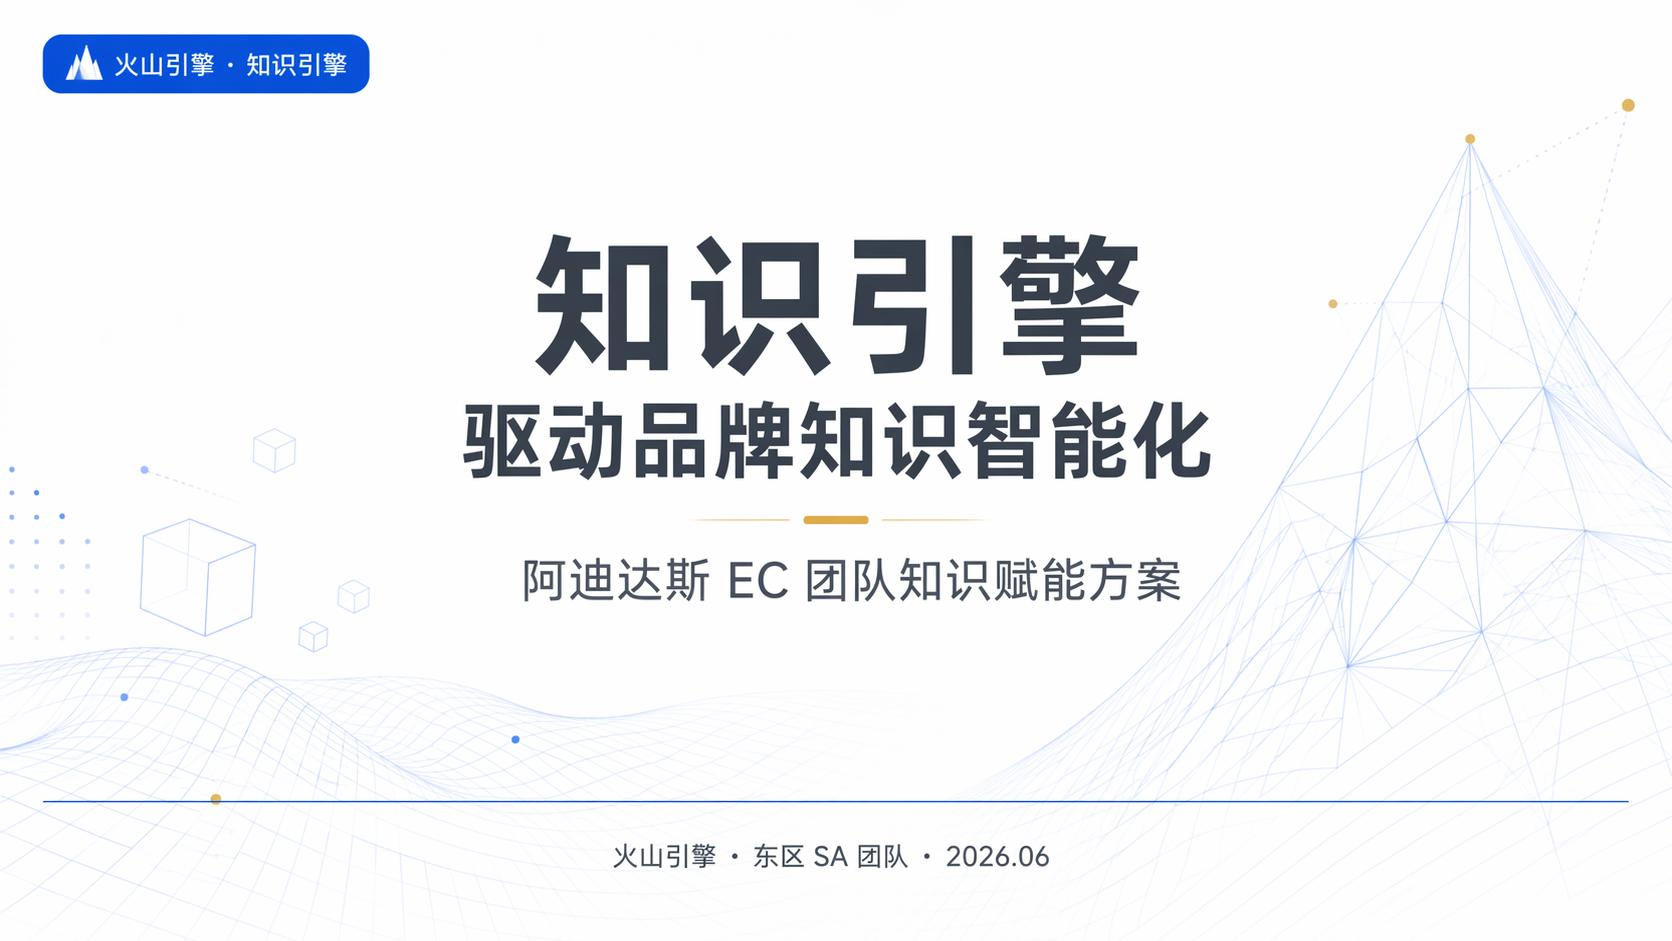
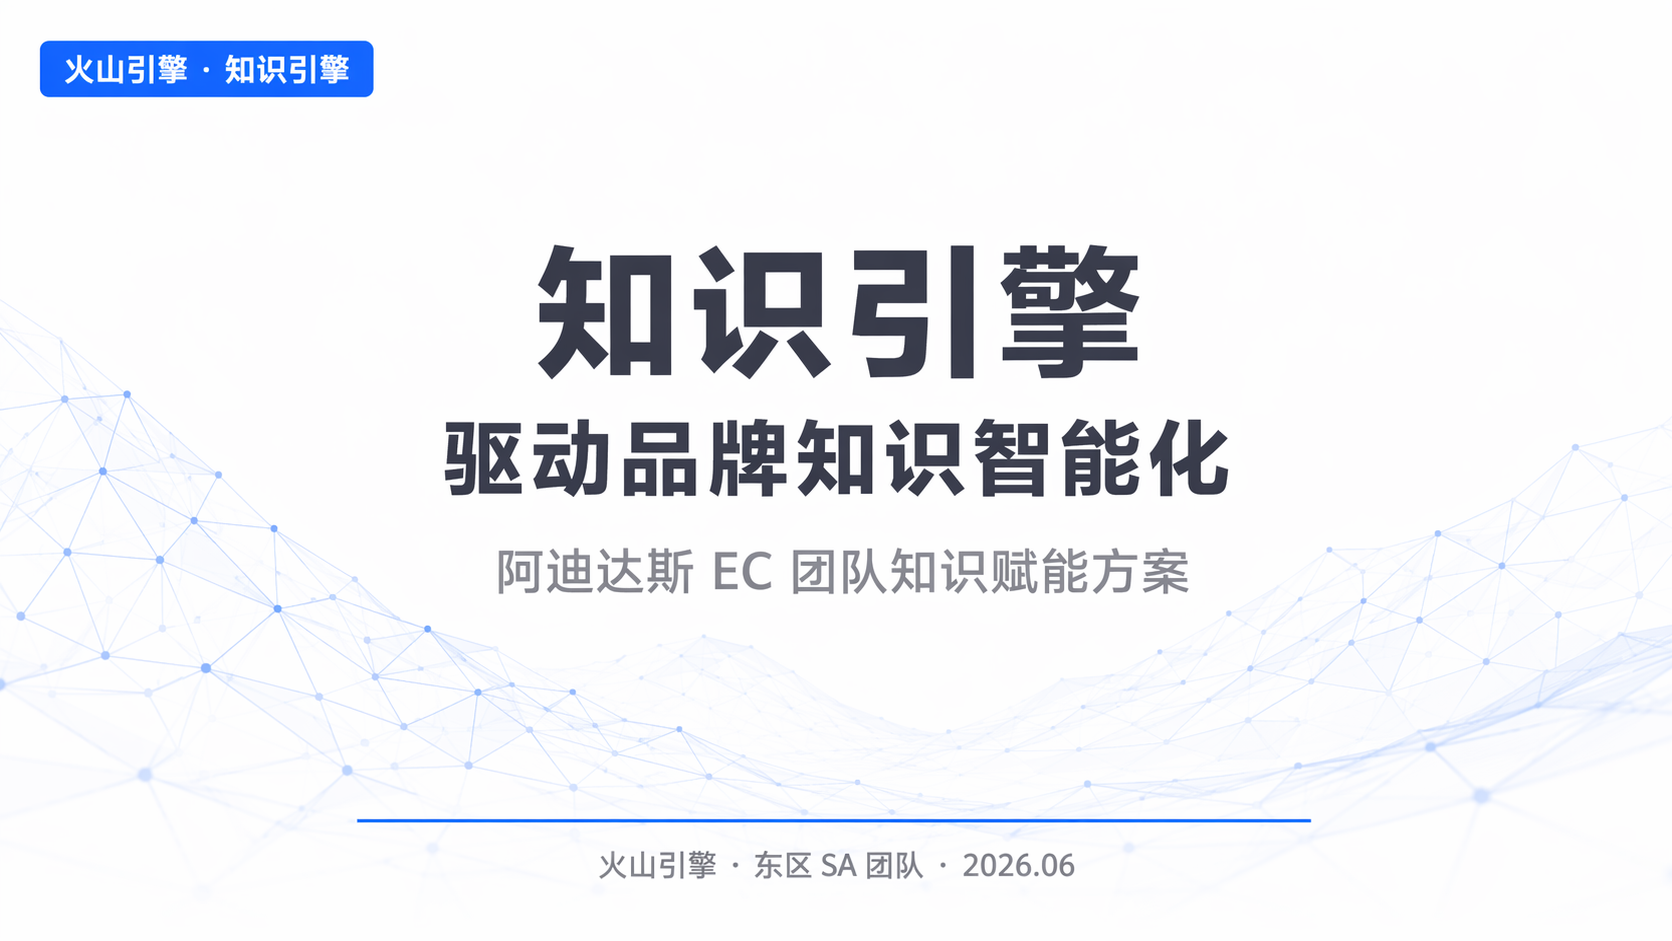
阿迪达斯选题状态更新为已发布

diff --git a/04-方法论沉淀/PPT-JSON工作流.md b/04-方法论沉淀/PPT-JSON工作流.md
@@ -473,7 +473,73 @@ image_with_caption   — 配图+说明
 # 完整脚本参考：阿迪达斯选题实际执行记录
 ```
 
-### 8.6 注意事项
+### 8.6 图片品质与模板选择
+
+Mira 图片走字节 ImageX 服务，URL 中的 `~tplv-{template}` 后缀决定图片处理方式。
+
+| 模板后缀 | 文件大小 (16:9) | 说明 |
+|----------|:---:|------|
+| `~tplv-xobrcjvdq7-image-jpeg.jpeg` | ~82KB | 默认压缩版，带水印 |
+| `~tplv-xobrcjvdq7-image.image` | ~332KB | **高品质版（推荐）**，4x 体积 |
+
+**规则：始终使用 `~tplv-xobrcjvdq7-image.image` 模板。** 下载时把 URL 中的模板后缀替换即可。
+
+```bash
+# 从 SSE 拿到原始 URL 后，替换模板后缀再下载
+HQ_URL=$(echo "$ORIG_URL" | sed 's/~tplv-[^?]*/~tplv-xobrcjvdq7-image.image/')
+curl -H "Cookie: $COOKIE" "$HQ_URL" -o output.jpeg
+```
+
+关于水印：水印是 ImageX 模板在服务端渲染时叠加的，无法通过 API 参数去除。下载按钮的 `&filename=...&download=1` 参数仅触发浏览器下载行为（Content-Disposition header），不改变图片内容。
+
+### 8.7 超时与防重复生成
+
+**核心原则：每次生图请求必须设置超时，超时后不得自动重试。**
+
+```python
+# 生图请求超时设置
+TIMEOUT = 120  # 秒，GPT Image 2 通常 20-90s 完成
+
+# 超时后的处理逻辑：
+# 1. 不要自动重试 — 可能图片已在生成中，重试会导致重复
+# 2. 检查 SSE 响应是否已返回部分数据
+# 3. 如果确实无响应，收集超时页面列表
+```
+
+**超时报告机制：**
+- 批量生成完成后，汇总所有超时/失败的页面
+- 向主人报告：「以下 N 页超时/失败：P03, P07, P12...」
+- 由主人决定是否重新生成这些页面
+- 主人发起重试时，脚本只跑指定的失败页面（断点续跑）
+
+防重复机制：
+- 每页生成前检查目标文件是否已存在且 > 1KB（80 字节 = 失败下载）
+- 已存在的有效文件自动跳过（断点续跑）
+- 单次请求超时后不自动重试，需人工确认
+
+### 8.8 文件命名规则
+
+**命名格式：`P{page_id}-{title}.jpeg`**
+
+- `page_id`：两位数字，如 `01`, `02`, `03`
+- `title`：从对应 JSON 的 `title` 字段提取，空格替换为 `-`，特殊字符（`·`、`：`、`/` 等）保留
+- 示例：`P01-知识引擎-·-驱动品牌知识智能化.jpeg`
+
+```python
+# 从 JSON 提取 page_id 和 title 生成文件名
+def get_filename(json_path):
+    with open(json_path) as f:
+        data = json.load(f)
+    page_id = str(data['page_id']).zfill(2)  # "1" → "01"
+    title = data['title'].replace(' ', '-')   # 空格 → 连字符
+    return f"P{page_id}-{title}.jpeg"
+```
+
+产出路径：
+1. 生成时保存到 `05-配图/mira-gpt-image2/`
+2. 确认后复制到 `07-已发布/` 供主人检查
+
+### 8.9 注意事项
 
 - cookie 有效期有限，过期需重新从浏览器获取
 - GPT Image 2 不支持指定分辨率，1672×941 是固定输出
@@ -481,6 +547,7 @@ image_with_caption   — 配图+说明
 - 批量生成建议分批次跑（每批 10-12 页），避免 OOM
 - 产出目录：`05-配图/mira-gpt-image2/`
 - 确认后复制到 `07-已发布/` 供最终使用
+- **始终使用 `image.image` 模板，不要用默认的 `image-jpeg.jpeg`**
 
 ---
 

diff --git a/01-选题管理/00-选题记录.md b/01-选题管理/00-选题记录.md
@@ -23,7 +23,7 @@
 - 类型：PPT
 - 关键词：知识引擎, 阿迪达斯, 投标, Global客户, 知识管理, EC团队, 商品对比
 - 初步想法：面向阿迪达斯（Adidas）EC 团队的知识引擎投标方案，覆盖五大痛点（资料分散/主档校验/USP生成/PEP生成/商品对比），四层架构方案设计，品牌视角未来延展
-- 状态：已深化
+- 状态：已发布
 - 工作目录：02-选题内容/PPT/03-阿迪达斯知识引擎投标方案/
 
 ### [2026-06-15] 火山方舟大模型数据安全 For 亿滋